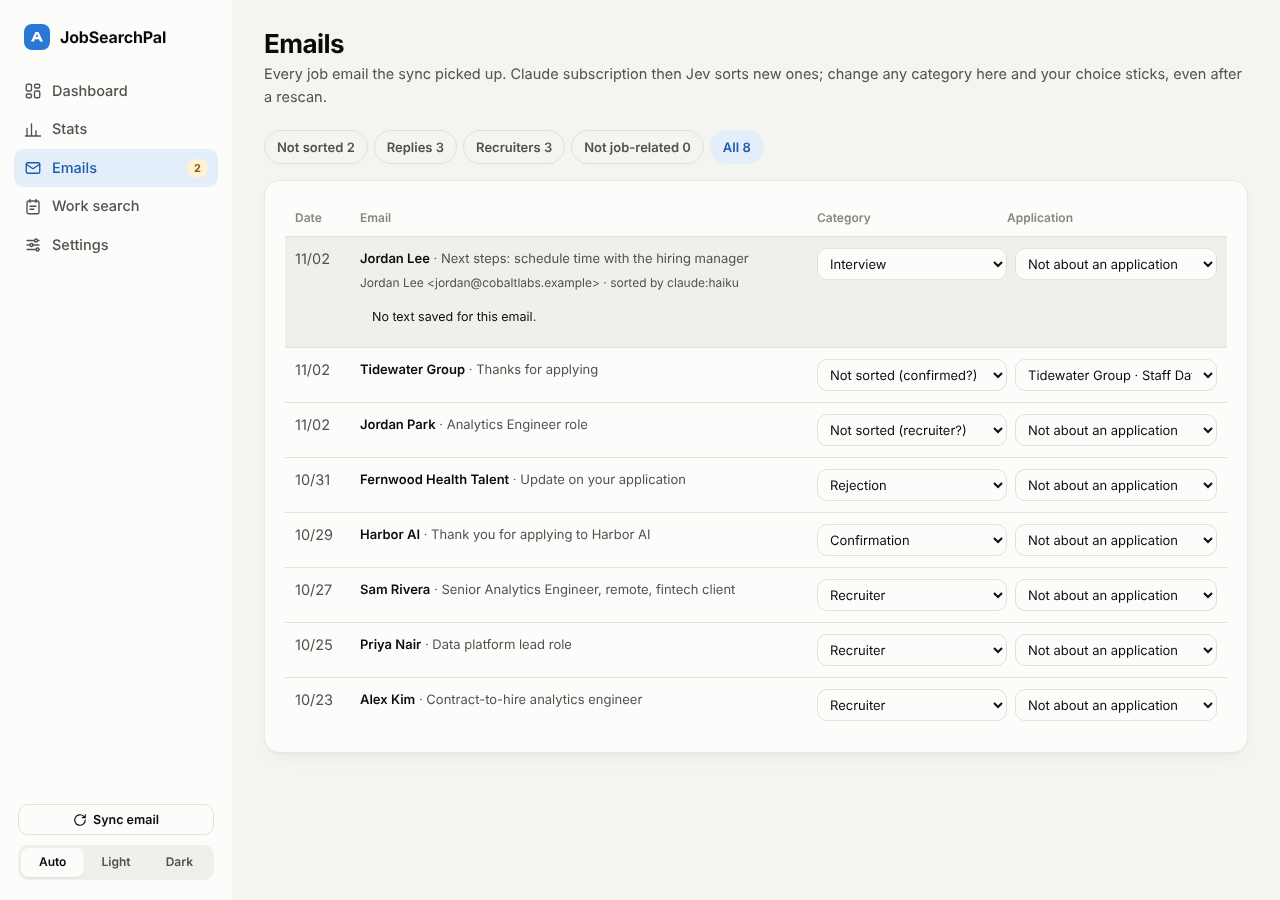
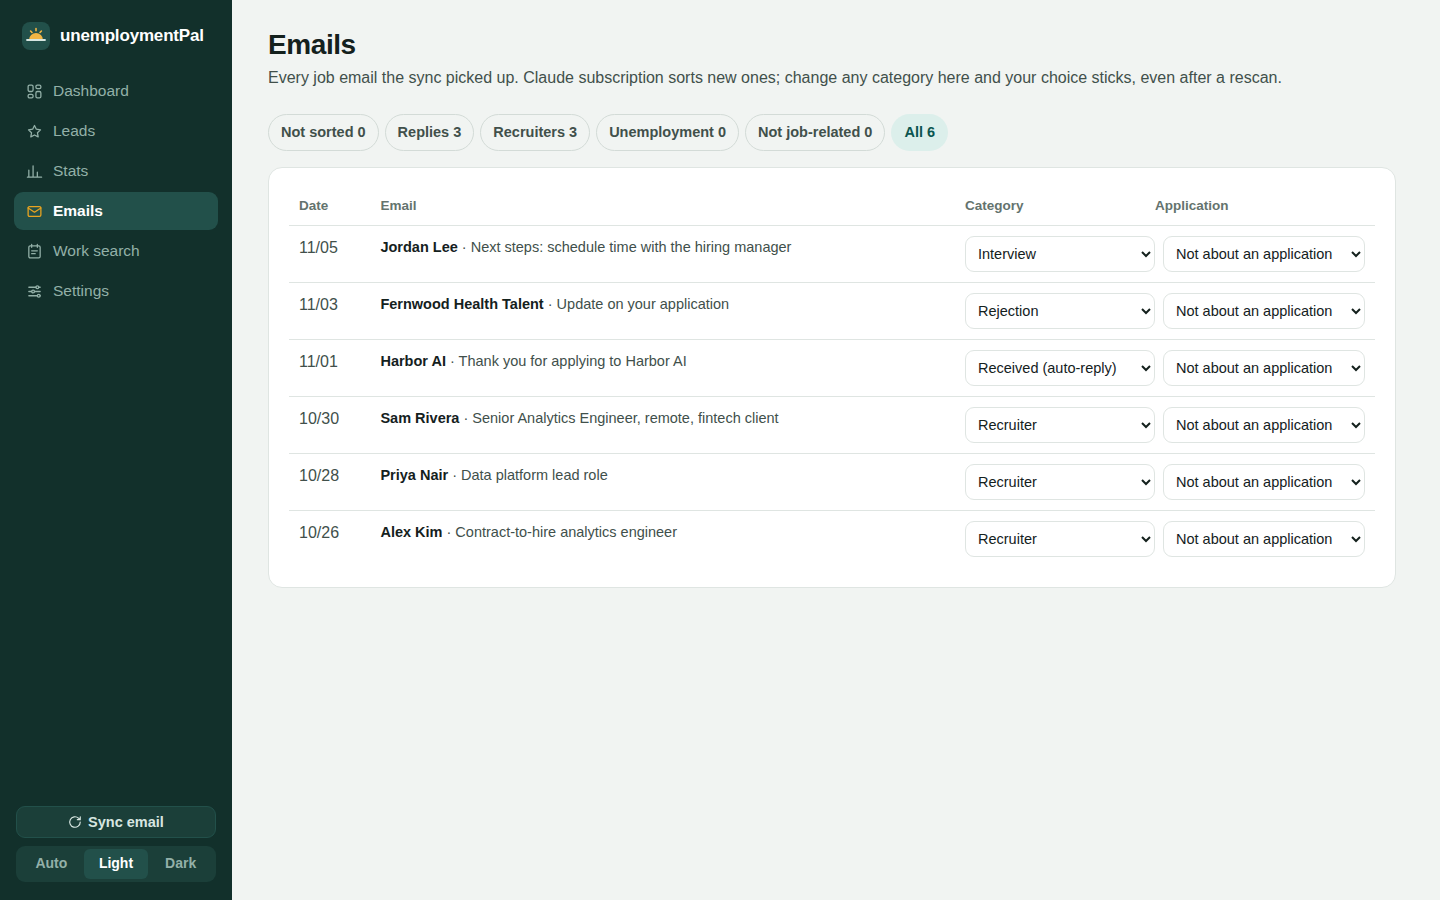
README ready to share: unemployment help, job sources, fresh screenshots (#6)
New intro covering the job search and the unemployment side, an Unemployment help section, job sources, and all screenshots retaken from demo data.

diff --git a/scripts/demo-data.py b/scripts/demo-data.py
@@ -45,5 +45,26 @@ leads.set_status(db,leads.key("Lumen Works","Analytics Engineering Manager"),"st
 leads.set_status(db,leads.key("Maple Insurance","Senior BI Developer"),"dismissed")
 for kind in ["daily","find","sync-email","brief"]:
     db.log_run(kind, True, "demo")
-(root/"config.yaml").write_text("data_dir: ./data\nreview: {host: 127.0.0.1, port: 8799}\nwork_search: {label: Work search, weekly_minimum: 3}\n")
-(root/"profile.yaml").write_text((Path(__file__).resolve().parents[1] / "profile.example.yaml").read_text())
+# A set-up demo user, so screenshots show the app in use rather than the first-run Setup prompts.
+import yaml
+start=(now-timedelta(weeks=7)).date()
+(root/"config.yaml").write_text(yaml.safe_dump({"data_dir":"./data","review":{"host":"127.0.0.1","port":8799},
+ "search":{"title_keywords":["analytics engineer","data engineer","head of data"],"exclude_keywords":["intern","junior"],"us_only":True},
+ "boards":[{"ats":"greenhouse","slug":s} for s in ("harborai","pinecrest","cobaltlabs","gridpoint","juniperdata")]+[{"ats":"ashby","slug":s} for s in ("kestrel","nimbus","orchard")],
+ "feeds":["remoteok","remotive","hn_whos_hiring","themuse","himalayas"],
+ "work_search":{"label":"Work search","weekly_minimum":3,"state":"MA","claim_start":start.isoformat(),"weekly_benefit":"812","weeks_allowed":"26","certify_day":"Sunday"}},sort_keys=False))
+prof=yaml.safe_load((Path(__file__).resolve().parents[1] / "profile.example.yaml").read_text())
+prof.update({"first_name":"Alex","last_name":"Morgan","email":"alex.morgan@example.org"})
+(root/"profile.yaml").write_text(yaml.safe_dump(prof,sort_keys=False))
+(root/"materials").mkdir(exist_ok=True); (root/"materials"/"Morgan Resume - Base.docx").write_bytes(b"")
+(root/"data"/"sources.json").write_text(json.dumps({"at":now.strftime("%Y-%m-%d %H:%M"),"sources":{
+ "remoteok":{"fetched":96,"matched":4,"new":2,"error":""},"remotive":{"fetched":14,"matched":1,"new":0,"error":""},
+ "hn_whos_hiring":{"fetched":212,"matched":6,"new":3,"error":""},"themuse":{"fetched":118,"matched":3,"new":1,"error":""},
+ "himalayas":{"fetched":100,"matched":2,"new":1,"error":""}}}))
+from autoapply import benefits
+benefits.add_resea(db, "MA")
+for n,(tid,) in enumerate(db.conn.execute("select id from ui_tasks where kind = 'resea' order by id").fetchall()):
+    db.conn.execute("update ui_tasks set due = ?, done = ? where id = ?", ((now+timedelta(days=[-3,6,20][min(n,2)])).date().isoformat(), int(n == 0), tid))
+db.conn.commit()
+benefits.add_task(db, "Upload ID to the claim portal", (now+timedelta(days=9)).date().isoformat())
+

diff --git a/scripts/screenshots.py b/scripts/screenshots.py
@@ -1,0 +1,42 @@
+"""Regenerates the README screenshots in docs/ from fictional demo data. Needs Playwright's Chromium.
+    python3 scripts/screenshots.py            # writes docs/*.png
+It builds a demo folder with scripts/demo-data.py, serves it on 127.0.0.1:8799 and captures each page.
+"""
+import os, subprocess, sys, tempfile, time
+from pathlib import Path
+from playwright.sync_api import sync_playwright
+
+repo = Path(__file__).resolve().parents[1]
+demo = Path(tempfile.mkdtemp(prefix="upal-demo-"))
+subprocess.run([sys.executable, str(repo / "scripts" / "demo-data.py"), str(demo)], check=True, cwd=repo)
+env = {**os.environ, "PYTHONPATH": str(repo), "GMAIL_USER": "demo@example.org", "GMAIL_APP_PASSWORD": "demo"}
+env.pop("AUTOAPPLY_TOKEN", None)
+srv = subprocess.Popen([sys.executable, "-m", "autoapply.cli", "serve"], cwd=demo, env=env,
+                       stdout=subprocess.DEVNULL, stderr=subprocess.DEVNULL)
+try:
+    time.sleep(4)
+    base = "http://127.0.0.1:8799"
+    shots = [  # (file, path, width, height, theme, full page)
+        ("dashboard.png", "/", 1440, 900, "light", True),
+        ("dashboard-phone.png", "/", 390, 844, "light", False),
+        ("work-search.png", "/dua", 1440, 900, "light", True),
+        ("leads.png", "/leads", 1440, 900, "light", True),
+        ("stats-dark.png", "/stats", 1440, 900, "dark", True),
+        ("emails.png", "/emails?show=all", 1440, 900, "light", False),
+        ("settings.png", "/settings", 1440, 900, "light", False),
+        ("setup.png", "/setup", 1440, 900, "light", False),
+    ]
+    with sync_playwright() as p:
+        b = p.chromium.launch()
+        for name, path, w, h, theme, full in shots:
+            pg = b.new_page(viewport={"width": w, "height": h}, color_scheme=theme)
+            pg.goto(base + path)
+            pg.evaluate(f"localStorage.setItem('aa-theme', '{theme}')")
+            pg.goto(base + path)
+            pg.wait_for_timeout(700)
+            pg.screenshot(path=str(repo / "docs" / name), full_page=full)
+            pg.close()
+            print("docs/" + name)
+        b.close()
+finally:
+    srv.terminate()

diff --git a/autoapply/classify.py b/autoapply/classify.py
@@ -166,7 +166,7 @@ def _ask_codex(prompt: str, model: str) -> str:
 
 def _post(url: str, body: dict, key: str | None, timeout: int = 120) -> dict:
     headers = {"content-type": "application/json", "x-title": "unemploymentPal",
-               "http-referer": "https://github.com/harung1993/jobSearchPal"}
+               "http-referer": "https://github.com/harung1993/unemploymentPal"}
     if key:
         headers["authorization"] = f"Bearer {key}"
     req = urllib.request.Request(url, data=json.dumps(body).encode(), headers=headers)

diff --git a/README.md b/README.md
@@ -2,24 +2,34 @@
 
 Your job search, and the unemployment paperwork that comes with it.
 
-A self-hosted job application assistant. Every weekday morning, an AI agent on your own subscription,
-[Claude Code](https://claude.com/claude-code) or OpenAI's [Codex CLI](https://github.com/openai/codex), runs headless
-on a small always-on server. It finds new roles, picks the best fits, tailors your
-resume and cover letter, and fills the real application forms with Playwright, PDF uploads
-included. **It never presses Submit.** You review each application on a private dashboard and send
-it yourself.
+A self-hosted assistant for people looking for work, especially while collecting unemployment. It runs on a
+small always-on computer you own and does two jobs:
+
+- **The job search.** Every weekday morning an AI agent on your own subscription
+  ([Claude Code](https://claude.com/claude-code) or OpenAI's [Codex CLI](https://github.com/openai/codex)) finds new
+  roles, picks the best fits, tailors your resume and cover letter, and fills in the real application form, PDFs
+  included. **It never presses Submit.** You review each application on a private dashboard and send it yourself.
+- **The unemployment paperwork.** It keeps your state's work-search log as you go (every application, recruiter
+  contact and interview, with the original emails and submit screenshots as proof), knows your state's weekly
+  rule, and reminds you about claim day, RESEA meetings and other deadlines. Rules for all 50 states, DC,
+  Puerto Rico and the US Virgin Islands are built in.
+
+It reads your job email (read-only), files every reply, reminds you who to follow up with and drafts the reply,
+and writes an interview prep pack when an interview comes in.
 
 ![Dashboard](docs/dashboard.png)
 
-<details><summary>Stats, Settings and Emails pages, and the phone layout</summary>
+<details><summary>Work-search log, job sources, stats, emails, settings and the phone layout</summary>
 
+![Work-search log](docs/work-search.png)
+![Leads and job sources](docs/leads.png)
 ![Stats](docs/stats-dark.png)
-![Settings](docs/settings.png)
 ![Emails](docs/emails.png)
+![Settings](docs/settings.png)
 <img src="docs/dashboard-phone.png" width="300" alt="Dashboard on a phone">
 </details>
 
-The screenshots use fictional demo data (`scripts/demo-data.py`).
+The screenshots use fictional demo data (`scripts/demo-data.py`; regenerate them with `scripts/screenshots.py`).
 
 ## How it works
 
@@ -70,14 +80,15 @@ you ─► dashboard ─► check answers, decide consents ─► Submit
 - **Any RSS or Atom job feed** (`rss_feeds` in `config.yaml`, or the Setup page): We Work Remotely, jobs.ac.uk and
   many others have them. Sites that answer automated requests with a bot check (HigherEdJobs does) are
   left to their job-alert emails; unemploymentPal doesn't try to get around those checks.
-- **Job-alert emails** (LinkedIn, Indeed, Built In, Glassdoor and others): every role in them is saved on the
-  **Leads** page with its location, salary when given, source and a rough fit score, even though only a couple
-  a day get tailored. Sort and filter them, dismiss the misses, and star the ones you want: the next run looks
-  each starred role up on the company's own site and adds it to the roles it can tailor. Parsing is plain
-  Python (no model), from the "View job" blocks these emails use.
-- **Your job-alert emails** from LinkedIn, Built In, Indeed, Glassdoor, Wellfound, HigherEdJobs (Job Agent emails), ZipRecruiter and Dice. For each good
-  role, the agent finds the same posting on the company's own careers page and applies there, since
-  aggregator listings are often stale.
+- **Job-alert emails** from LinkedIn, Indeed (including its job-match emails), HigherEdJobs (Job Agent emails), Built In,
+  Glassdoor, Wellfound, ZipRecruiter and Dice. Every role in them is saved on the **Leads** page with its location,
+  salary when given, source and a rough fit score. After each email sync the top leads are looked up on the
+  company's own job board (no AI) and join the roles the daily run can tailor; star others and the next run
+  searches the web for them. Parsing is plain Python, from the "View job" blocks these emails use.
+
+**See every source in one place.** The Leads page opens with *Where your jobs come from*: each source marked on,
+off or "needs a step" (a missing key, Gmail not connected), how many roles it brought in, and a one-line how-to
+for the ones you haven't set up. The dashboard nudges you when fewer than half are on.
 
 Each run saves what every source returned to `data/sources.json`; the Setup page shows the counts, and a
 source that failed, next to its name.
@@ -178,17 +189,44 @@ Choices are saved in `data/settings.json`. Nothing on the page needs a restart.
 
 ### Dashboard pages
 
-- **Dashboard:** a to-do list of follow-ups, what's ready for you, interviews with their prep packs, latest replies, recruiters, applications per week, the full
-  application list, and when each job (search, email sync, sorting, brief) last ran.
+- **Dashboard:** what's **ready to submit** and a **shortlist** of today's best untailored matches (Prepare or
+  Decline, with a reason), your work-search count for the week, a to-do list (replies owed, follow-ups, claim day,
+  RESEA and other deadlines), interviews with their prep packs, latest replies, recruiters, applications per week
+  and the full application list. **Run now** starts another batch any time.
+- **Leads:** every role from your job-alert emails, plus *Where your jobs come from* (see above).
+- **Review page:** the filled answers, your tailored documents and a screenshot of the form. Pre-submit checks
+  (documents present and current, required answers filled, consents confirmed) keep Submit locked until they pass.
 - **Stats:** response and interview rates, median time to reply, funnels, results by application
   platform, reply-time buckets, weeks at your work-search minimum, and pipeline trends.
 - **Emails:** see above.
 - **Settings:** Setup, Email sorting, Daily run, and Costs & limits tabs (above).
-- **Work-search log:** if you claim unemployment benefits, every application and recruiter contact
-  is grouped by Sunday-to-Saturday week, with the original emails and submit screenshots saved as
-  proof and a weekly zip in work-search-log columns.
+- **Work search:** see [Unemployment help](#unemployment-help).
 
 Light and dark mode, and it works on a phone.
+
+## Unemployment help
+
+Pick your state on the Setup page and the **Work search** page becomes your unemployment desk:
+
+- **This week at a glance:** activities so far against your state's weekly minimum, days left until Saturday,
+  your next deadline, and a one-click download of the week's proof.
+- **Your state's rule, in plain English:** the weekly number and what counts, how it's reported, required job-bank
+  registration, how long to keep records, common exemptions, the waiting week, how much part-time pay is allowed,
+  and the weekly benefit range and maximum weeks. Each of the 53 entries in
+  [`autoapply/work_search_states.yaml`](autoapply/work_search_states.yaml) was checked against the state agency's
+  own site and links to it, with the date it was checked and a confidence level. Rules change: the notice your
+  state sends you always wins, and corrections are welcome as pull requests.
+- **The log itself:** applications, recruiter contacts, interviews and RESEA meetings grouped by Sunday-to-Saturday
+  week, in a work-search log's columns, with the original emails and submit screenshots saved as proof. Each week
+  downloads as a zip with a CSV.
+- **Your claim:** enter the start date, weekly benefit and weeks allowed from your monetary determination letter to
+  see the weeks and money left, and get a claim-day reminder.
+- **RESEA and deadlines:** if you're selected for RESEA (Reemployment Services and Eligibility Assessment), add its
+  steps in one click and put in the dates from your notice; they show on the dashboard's To do with a countdown,
+  next to any other deadline you add. Letters from your state's agency are filed separately so you don't miss them.
+- **Good to know:** the things people learn too late (benefits are taxable, keep filing during the waiting week,
+  severance can delay benefits) and help people often miss (health coverage, SNAP, 211, your career center, free
+  legal help).
 
 ## What it will not do
 
@@ -300,7 +338,7 @@ One image has Python, Playwright's Chromium, LibreOffice and both agent CLIs, so
 installed on the host. Your files stay in the repo folder, which is mounted into the containers.
 
 ```
-git clone https://github.com/harung1993/jobSearchPal.git ~/auto-apply && cd ~/auto-apply
+git clone https://github.com/harung1993/unemploymentPal.git ~/auto-apply && cd ~/auto-apply
 docker compose up -d --build                # dashboard + the daily scheduler
 docker compose run --rm web claude          # sign in to Claude Code and trust /app (or: codex login)
 ```
@@ -381,11 +419,32 @@ tests/                   local fixture forms and tests
 python3 -m venv .venv && .venv/bin/pip install -e ".[dev]" && .venv/bin/playwright install chromium
 .venv/bin/pytest
 python3 scripts/demo-data.py /tmp/demo && cd /tmp/demo && autoapply serve   # http://127.0.0.1:8799
+python3 scripts/screenshots.py                                              # refresh docs/*.png
 ```
 
 The filler is tested against local copies of each ATS's form layout (`tests/fixtures/`). Real
 forms change, so expect to tweak labels and selectors in `autoapply/fillers/`. Issues and pull
 requests are welcome, especially new ATS fillers and better reply classification.
+
+## Status and limits
+
+unemploymentPal is young: it's used daily by its author and has been tested from a clean Docker install, but expect
+rough edges. Known limits today:
+
+- **You need a small always-on computer** (a home server, a mini PC, a cheap cloud VM) and are comfortable running a
+  few terminal commands once. Day to day, everything happens in the browser.
+- **Email is Gmail only** (an app password, read-only). Other providers are on the list.
+- **US-focused.** Job filters lean US, and the unemployment rules cover US states and territories.
+- **Some sites need you.** Workday and other account-based sites get materials prepared and are marked "apply by
+  hand"; captchas and emailed codes are finished by you (`autoapply-finish` opens the filled form in Chrome).
+- **AI usage is real.** A full morning run is roughly 1-2 million tokens on your subscription; caps and a monthly
+  budget for paid APIs are on Settings > Costs & limits.
+
+## Contributing
+
+Issues and pull requests are welcome, especially: corrections to a state's rules (with the agency link), new ATS
+form fillers, other email providers, and reply-sorting mistakes (share the subject and sender, never the body).
+Please keep personal data out of issues, tests and screenshots; use `scripts/demo-data.py`.
 
 ## License
 
